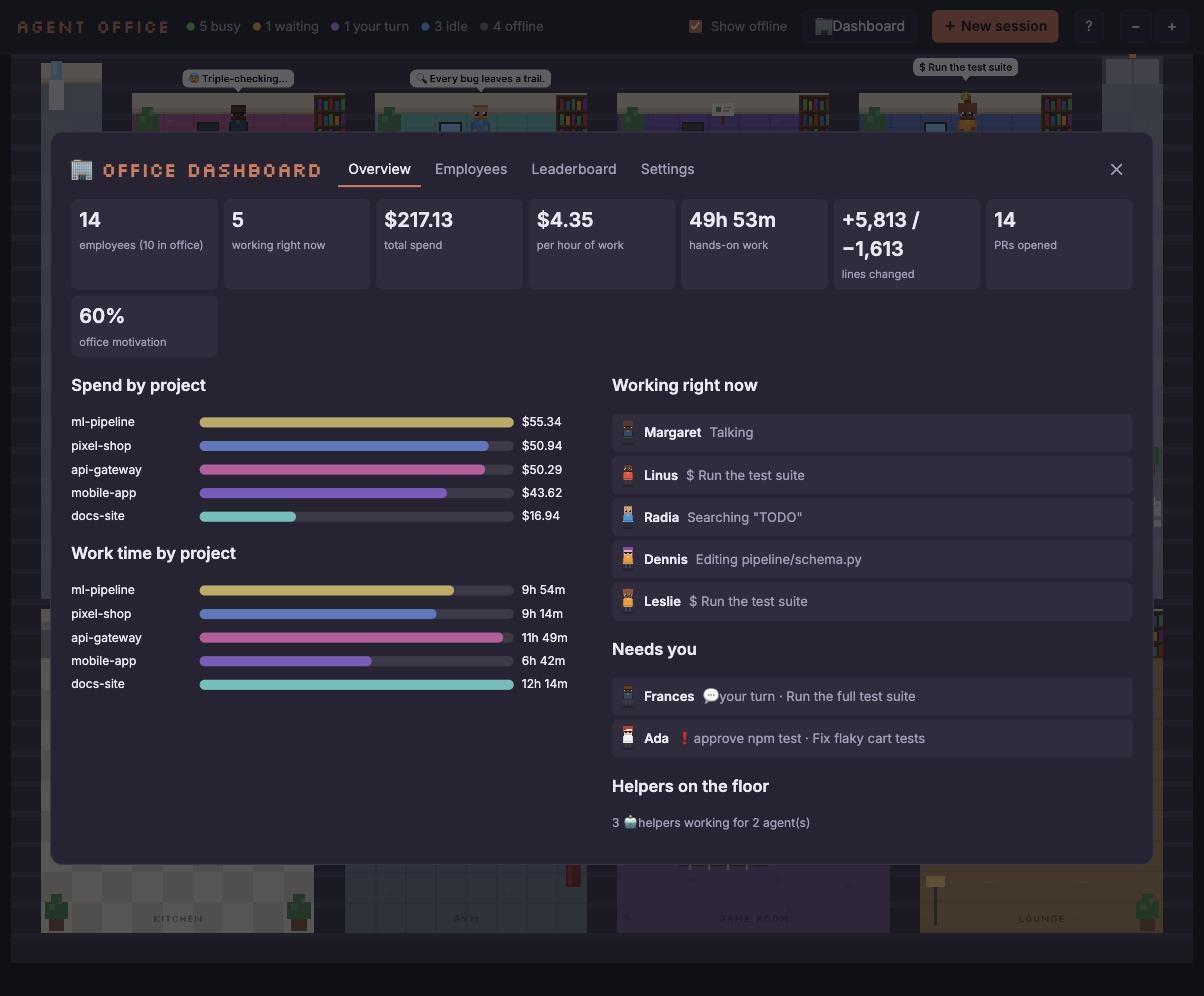
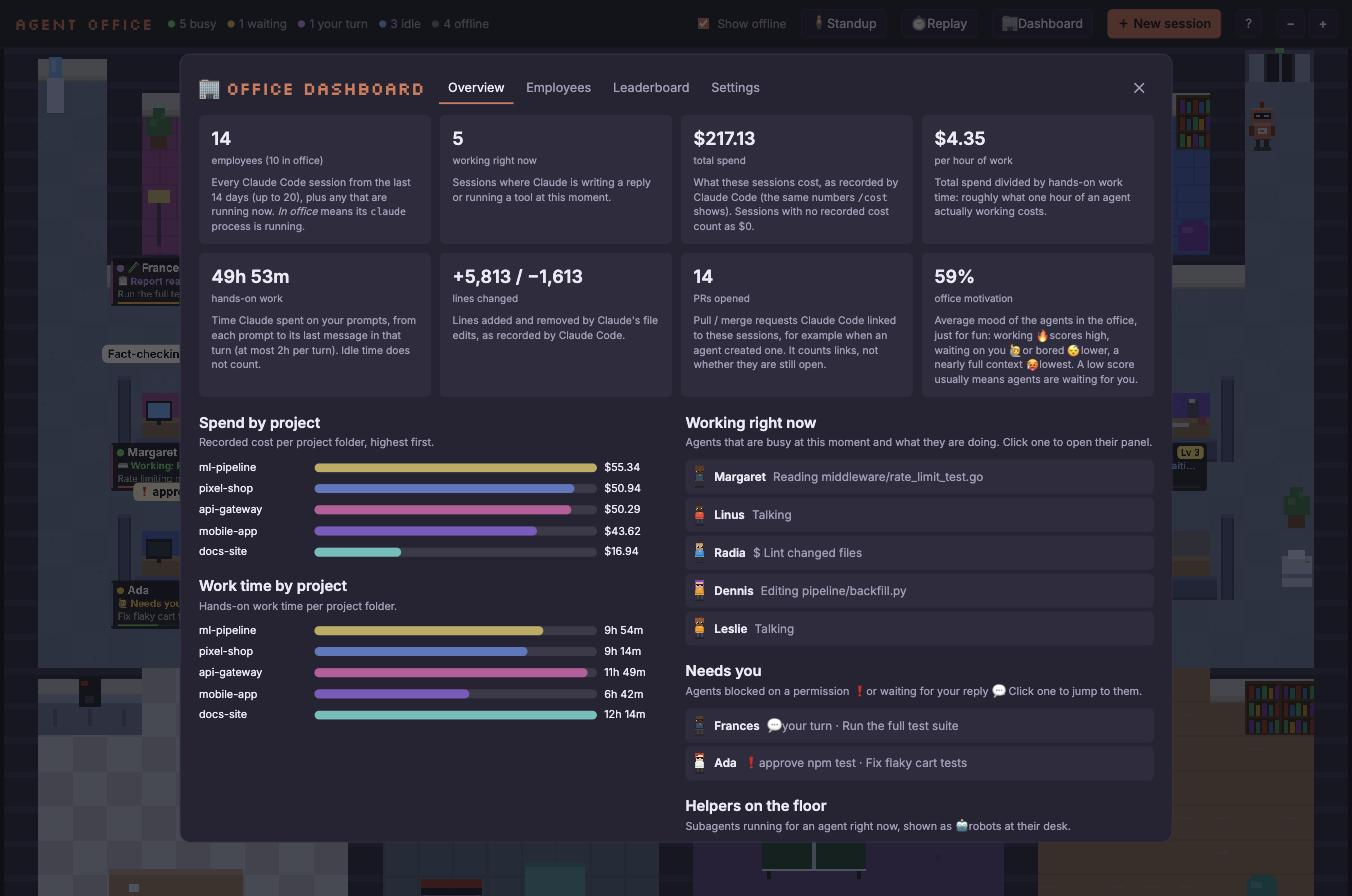
Explain every dashboard overview card and section
Each overview card now says what it measures and where the number comes
from (employees, spend, per hour of work, hands-on work, lines, PRs and
office motivation), and each section has a one-line description.

diff --git a/public/app.js b/public/app.js
@@ -1415,30 +1415,32 @@ function renderOverview() {
   const needs = list.filter(s => s.status === 'waiting' || isYourTurn(s));
   const avgMot = live.length ? Math.round(live.reduce((t, s) => t + motivation(s).score, 0) / live.length) : 0;
   const pane = document.querySelector('[data-bpane=overview]');
+  const card = (value, label, desc) => `<div class="stat-card"><b>${value}</b><span>${label}</span><p class="desc">${desc}</p></div>`;
+  const section = (title, desc) => `<h3>${title}</h3><p class="section-desc">${desc}</p>`;
   pane.innerHTML = `
-    <div class="kv">
-      <div><b>${list.length}</b><span>employees (${live.length} in office)</span></div>
-      <div><b>${busy.length}</b><span>working right now</span></div>
-      <div><b>${money(sum('cost'))}</b><span>total spend</span></div>
-      <div><b>${money(workH ? sum('cost') / workH : 0)}</b><span>per hour of work</span></div>
-      <div><b>${fmtDuration(sum('workMs'))}</b><span>hands-on work</span></div>
-      <div><b>+${sum('linesAdded').toLocaleString()} / −${sum('linesRemoved').toLocaleString()}</b><span>lines changed</span></div>
-      <div><b>${sum('prs')}</b><span>PRs opened</span></div>
-      <div><b>${avgMot}%</b><span>office motivation</span></div>
+    <div class="kv overview-cards">
+      ${card(list.length, `employees (${live.length} in office)`, `Every Claude Code session from the last ${config.maxDays} days (up to ${config.maxRooms}), plus any that are running now. <i>In office</i> means its <code>claude</code> process is running.`)}
+      ${card(busy.length, 'working right now', 'Sessions where Claude is writing a reply or running a tool at this moment.')}
+      ${card(money(sum('cost')), 'total spend', 'What these sessions cost, as recorded by Claude Code (the same numbers <code>/cost</code> shows). Sessions with no recorded cost count as $0.')}
+      ${card(money(workH ? sum('cost') / workH : 0), 'per hour of work', 'Total spend divided by hands-on work time: roughly what one hour of an agent actually working costs.')}
+      ${card(fmtDuration(sum('workMs')), 'hands-on work', 'Time Claude spent on your prompts, from each prompt to its last message in that turn (at most 2h per turn). Idle time does not count.')}
+      ${card(`+${sum('linesAdded').toLocaleString()} / −${sum('linesRemoved').toLocaleString()}`, 'lines changed', 'Lines added and removed by Claude\'s file edits, as recorded by Claude Code.')}
+      ${card(sum('prs'), 'PRs opened', 'Pull / merge requests Claude Code linked to these sessions, for example when an agent created one. It counts links, not whether they are still open.')}
+      ${card(`${avgMot}%`, 'office motivation', 'Average mood of the agents in the office, just for fun: working 🔥 scores high, waiting on you 🙋 or bored 😴 lower, a nearly full context 🥵 lowest. A low score usually means agents are waiting for you.')}
     </div>
     <div class="two">
       <div>
-        <h3>Spend by project</h3>
+        ${section('Spend by project', 'Recorded cost per project folder, highest first.')}
         ${projects.map(p => `<div class="hbar"><span title="${escapeHtml(p.project)}">${escapeHtml(p.project)}</span><div class="bar"><div style="width:${p.cost / maxCost * 100}%;background:${projectColor(p.project)}"></div></div><span>${money(p.cost)}</span></div>`).join('')}
-        <h3>Work time by project</h3>
+        ${section('Work time by project', 'Hands-on work time per project folder.')}
         ${projects.map(p => `<div class="hbar"><span>${escapeHtml(p.project)}</span><div class="bar"><div style="width:${p.workMs / maxWork * 100}%;background:${projectColor(p.project)}"></div></div><span>${fmtDuration(p.workMs)}</span></div>`).join('')}
       </div>
       <div>
-        <h3>Working right now</h3>
+        ${section('Working right now', 'Agents that are busy at this moment and what they are doing. Click one to open their panel.')}
         <div class="feed">${busy.map(s => `<div data-id="${s.id}">${avatarCell(s)}<b>${escapeHtml(personaFor(s).name)}</b><span class="what">${escapeHtml(s.activity || s.title)}</span></div>`).join('') || '<p class="muted small">Nobody is working. Time to hand out tasks?</p>'}</div>
-        <h3>Needs you</h3>
+        ${section('Needs you', 'Agents blocked on a permission ❗ or waiting for your reply 💬. Click one to jump to them.')}
         <div class="feed">${needs.map(s => `<div data-id="${s.id}">${avatarCell(s)}<b>${escapeHtml(personaFor(s).name)}</b><span class="what">${s.status === 'waiting' ? `❗ ${escapeHtml(s.waitingFor || 'waiting for input')}` : '💬 your turn'} · ${escapeHtml(s.title)}</span></div>`).join('') || '<p class="muted small">Nobody is waiting on you. 🎉</p>'}</div>
-        <h3>Helpers on the floor</h3>
+        ${section('Helpers on the floor', 'Subagents running for an agent right now, shown as 🤖 robots at their desk.')}
         <p class="muted small">${helpers.size ? `${helpers.size} 🤖 helper${helpers.size > 1 ? 's' : ''} working for ${new Set([...helpers.values()].map(h => h.parent.persona.name)).size} agent(s)` : 'No helpers right now.'}</p>
       </div>
     </div>`;

diff --git a/public/style.css b/public/style.css
@@ -236,3 +236,10 @@ button.small, .report-head button { font-size: 11px; padding: 3px 10px; }
 .tl-time { font: 12px ui-monospace, Menlo, monospace; min-width: 150px; }
 .timeline select { width: auto; }
 body.replaying #office { filter: sepia(0.25) saturate(0.9); }
+
+.overview-cards { grid-template-columns: repeat(auto-fit, minmax(210px, 1fr)) !important; gap: 10px !important; }
+.stat-card { display: flex; flex-direction: column; gap: 2px; padding: 12px 14px !important; }
+.stat-card .desc { margin: 6px 0 0; font-size: 11.5px; line-height: 1.4; color: var(--muted); }
+.stat-card .desc code { font-size: 11px; }
+.section-desc { margin: -2px 0 10px; font-size: 12px; color: var(--muted); }
+.board h3 { margin-bottom: 4px; }
